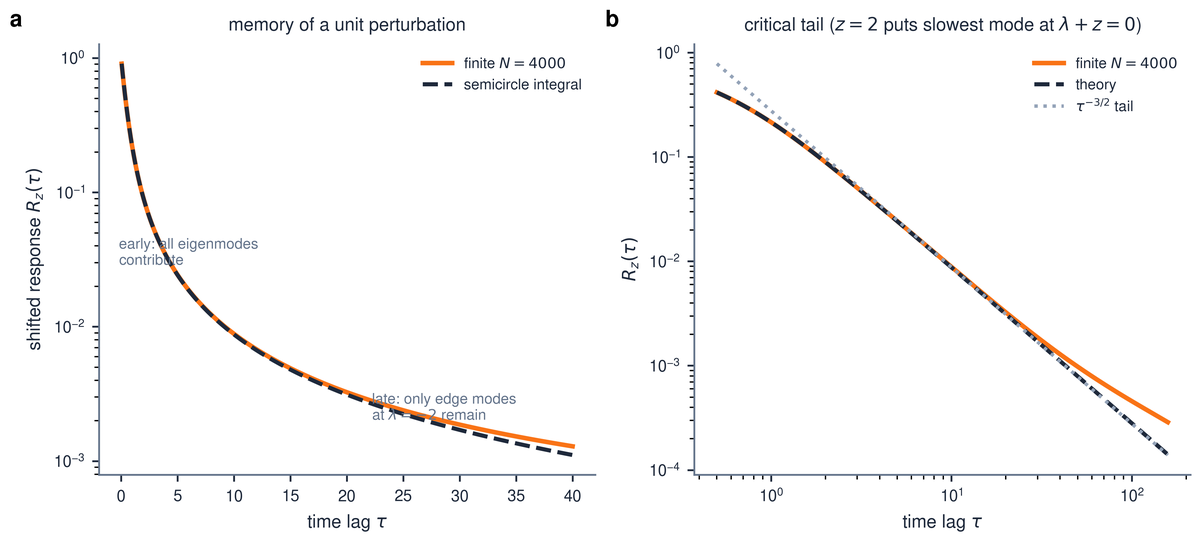
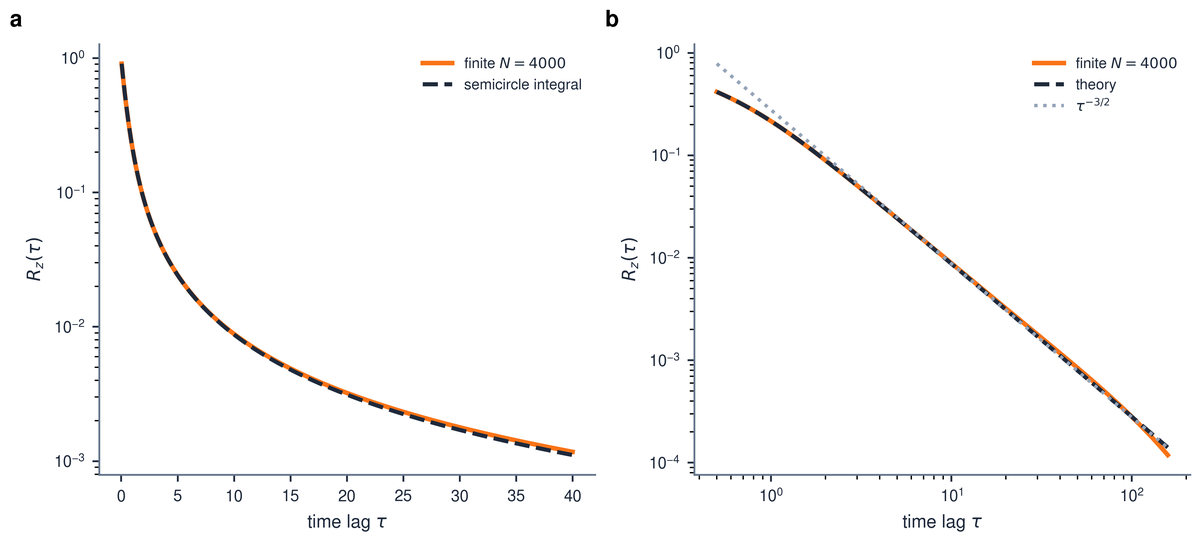
Speed up mode-decomposition GIF and strip Figure 2 commentary.
Use continuous 10 fps animation, remove in-figure annotations from fig2, and shorten the caption to a label only.

diff --git a/tools/path-integral-dmft/generate_figures.py b/tools/path-integral-dmft/generate_figures.py
@@ -128,36 +128,16 @@ def fig2_response_decay(gen: np.random.Generator) -> None:
     ax0.semilogy(tau_lin, r_lin_num, color="#f97316", lw=2.0, label=rf"finite $N={n}$")
     ax0.semilogy(tau_lin, r_lin_th, color="#1e293b", ls="--", lw=1.8, label="semicircle integral")
     ax0.set_xlabel(r"time lag $\tau$")
-    ax0.set_ylabel(r"shifted response $R_z(\tau)$")
-    ax0.set_title("memory of a unit perturbation", fontsize=8)
-    ax0.text(
-        0.04,
-        0.55,
-        "early: all eigenmodes\ncontribute",
-        transform=ax0.transAxes,
-        fontsize=6.5,
-        color=BLOG_MUTED,
-        va="top",
-    )
-    ax0.text(
-        0.55,
-        0.12,
-        "late: only edge modes\nat $\lambda=-2$ remain",
-        transform=ax0.transAxes,
-        fontsize=6.5,
-        color=BLOG_MUTED,
-        va="bottom",
-    )
+    ax0.set_ylabel(r"$R_z(\tau)$")
     ax0.legend(frameon=False, fontsize=6.5, loc="upper right")
     add_panel_label(ax0, "a")
     clean_axis(ax0)
 
     ax1.loglog(tau_log, r_log_num, color="#f97316", lw=2.0, label=rf"finite $N={n}$")
     ax1.loglog(tau_log, r_log_th, color="#1e293b", ls="--", lw=1.8, label="theory")
-    ax1.loglog(tau_log, ref, color="#94a3b8", ls=":", lw=1.5, label=r"$\tau^{-3/2}$ tail")
+    ax1.loglog(tau_log, ref, color="#94a3b8", ls=":", lw=1.5, label=r"$\tau^{-3/2}$")
     ax1.set_xlabel(r"time lag $\tau$")
     ax1.set_ylabel(r"$R_z(\tau)$")
-    ax1.set_title(r"critical tail ($z=2$ puts slowest mode at $\lambda+z=0$)", fontsize=8)
     ax1.legend(frameon=False, fontsize=6.5, loc="upper right")
     add_panel_label(ax1, "b")
     clean_axis(ax1)
@@ -385,25 +365,16 @@ def gif_spectral_modes() -> None:
     z = Z_SHIFT
     lam = np.linspace(-2.0, 2.0, 400)
     rho = wigner_density(lam)
-    rho_max = float(rho.max())  # semicircle peak ≈ 1/π
+    rho_max = float(rho.max())
 
-    # Keyframe lags with duplicate frames so each stage is readable.
-    keyframes: list[tuple[float, int]] = [
-        (0.0, 5),
-        (1.0, 4),
-        (3.0, 4),
-        (8.0, 4),
-        (15.0, 4),
-        (25.0, 5),
-        (35.0, 6),
-    ]
-    frame_taus = [tau for tau, n_hold in keyframes for _ in range(n_hold)]
+    # Smooth, evenly spaced lags for continuous motion.
+    frame_taus = np.linspace(0.0, 35.0, 90)
 
     tau_dense = np.linspace(0.0, 35.0, 400)
     r_dense = response_theory(tau_dense, z)
 
     fig = plt.figure(figsize=(7.2, 3.8), facecolor=BLOG_BG)
-    gs = GridSpec(2, 2, height_ratios=[1, 0.14], width_ratios=[1.15, 0.85], hspace=0.38, wspace=0.28)
+    gs = GridSpec(2, 2, height_ratios=[1, 0.1], width_ratios=[1.15, 0.85], hspace=0.32, wspace=0.28)
     ax_w = fig.add_subplot(gs[0, 0])
     ax_rt = fig.add_subplot(gs[0, 1])
     ax_banner = fig.add_subplot(gs[1, :])
@@ -415,20 +386,20 @@ def gif_spectral_modes() -> None:
     ax_w.axvline(-2.0, color="#94a3b8", ls="--", lw=1.0, alpha=0.8)
     ax_w.text(-1.95, rho_max * 0.97, r"$\lambda=-2$", fontsize=7, color=BLOG_MUTED, ha="left", va="top")
     ax_w.set_xlim(-2.2, 2.2)
-    ax_w.set_ylim(0, rho_max * 1.12)  # fixed: always show full semicircle
+    ax_w.set_ylim(0, rho_max * 1.12)
     ax_w.set_xlabel(r"eigenvalue $\lambda$")
     ax_w.set_ylabel("integrand weight")
-    ax_w.set_title("which modes build the response at this lag?", fontsize=8)
+    ax_w.set_title(r"$W(\lambda,\tau)$ at current $\tau$", fontsize=8)
     ax_w.legend(frameon=False, fontsize=6.5, loc="upper right")
 
     (line,) = ax_rt.plot([], [], color="#f97316", lw=2.4)
-    (marker,) = ax_rt.plot([], [], "o", color="#f97316", ms=5, zorder=3)
+    (marker,) = ax_rt.plot([], [], "o", color="#f97316", ms=4, zorder=3)
     ax_rt.semilogy(tau_dense, r_dense, color="#cbd5e1", lw=1.0, zorder=0)
     ax_rt.set_xlim(-0.5, 35.5)
     ax_rt.set_ylim(r_dense[r_dense > 0].min() * 0.5, r_dense.max() * 1.4)
     ax_rt.set_xlabel(r"time lag $\tau$")
     ax_rt.set_ylabel(r"$R_z(\tau)$")
-    ax_rt.set_title("integrated response so far", fontsize=8)
+    ax_rt.set_title("integrated response", fontsize=8)
 
     banner = ax_banner.text(
         0.5,
@@ -436,33 +407,23 @@ def gif_spectral_modes() -> None:
         "",
         ha="center",
         va="center",
-        fontsize=8.5,
+        fontsize=9,
         color=BLOG_FG,
         transform=ax_banner.transAxes,
     )
 
     _prep_blog_style(fig)
 
-    def _banner_text(tau: float) -> str:
-        if tau < 0.5:
-            return rf"$\tau={tau:.1f}$: orange curve matches the semicircle — all modes still contribute"
-        if tau < 5.0:
-            return rf"$\tau={tau:.1f}$: fast modes ($\lambda > 0$) are dying off; curve narrows leftward"
-        if tau < 12.0:
-            return rf"$\tau={tau:.1f}$: only modes with small $\lambda$ remain; weight shifts toward $\lambda=-2$"
-        return rf"$\tau={tau:.1f}$: integrand concentrated at the spectral edge ($\lambda=-2$); tail is slow"
-
     def update(frame: int):
-        tau = frame_taus[frame]
+        tau = float(frame_taus[frame])
         w = rho * np.exp(-(lam + z) * tau)
         active.set_ydata(w)
-        r_tau = float(np.trapezoid(w, lam))
         line.set_data(tau_dense[tau_dense <= tau], response_theory(tau_dense[tau_dense <= tau], z))
-        marker.set_data([tau], [r_tau])
-        banner.set_text(_banner_text(tau))
+        marker.set_data([tau], [float(response_theory(np.array([tau]), z)[0])])
+        banner.set_text(rf"$\tau = {tau:.1f}$")
         return active, line, marker, banner
 
-    gif_fps = 1.2  # ~0.8 s per frame; holds make total runtime ~25 s
+    gif_fps = 10.0
     ani = animation.FuncAnimation(fig, update, frames=len(frame_taus), interval=1000 / gif_fps, blit=False)
     gif_path = ASSETS / "gif-spectral-modes-response.gif"
     gif_path.parent.mkdir(parents=True, exist_ok=True)

diff --git a/_posts/2026-06-24-summing-over-training-histories.md b/_posts/2026-06-24-summing-over-training-histories.md
@@ -319,11 +319,11 @@ $$
 R_z(\tau)\sim \tau^{-3/2}.
 $$
 
-**What Figure 2 is measuring.** Imagine injecting a unit perturbation into the system and asking how much of it remains after a lag $\tau$. That scalar is $R_z(\tau)$. Because the dynamics are linear, it equals a trace over eigenmodes: each mode $\lambda$ contributes $\rho(\lambda)e^{-(\lambda+z)\tau}$. Panel (a) plots the full curve on a linear time axis so you can see the decay directly. Panel (b) zooms into the late-time tail on log-log axes and overlays a $\tau^{-3/2}$ reference. The orange curve is one finite-$N$ draw; the dashed curve is the semicircle integral, which is the large-$N$ answer. They should sit on top of each other, and the tail should parallel the dotted line.
+**What Figure 2 is measuring.** Imagine injecting a unit perturbation into the system and asking how much of it remains after a lag $\tau$. That scalar is $R_z(\tau)$. Because the dynamics are linear, it equals a trace over eigenmodes: each mode $\lambda$ contributes $\rho(\lambda)e^{-(\lambda+z)\tau}$. Panel (a) plots the full curve on a linear time axis; panel (b) zooms into the late-time tail on log-log axes with a $\tau^{-3/2}$ reference. The orange curve is one finite-$N$ draw; the dashed curve is the semicircle integral.
 
 <figure class="blog-figure">
   <img src="/assets/img/blog/path-integral/fig2-response-decay.png" alt="Two-panel response decay: linear-time overview and log-log tail" width="640"/>
-  <figcaption>Figure 2. Shifted response Rz(tau) with z = 2. Left: semilog plot on linear tau showing how memory of a perturbation decays. Right: log-log tail versus theory; the dotted line is a tau^(-3/2) reference slope. Orange: one GOE sample at N = 4000. Dashed: semicircle integral.</figcaption>
+  <figcaption>Figure 2. Shifted response $R_z(\tau)$ with $z=2$.</figcaption>
 </figure>
 
 I also checked finite-$N$ convergence: for each matrix size $N$, the relative L2 error between $R_z(\tau)$ and the semicircle integral falls as $N$ grows from hundreds to thousands. Figure 2 already shows agreement at $N=4000$, so I skip a separate plot.
